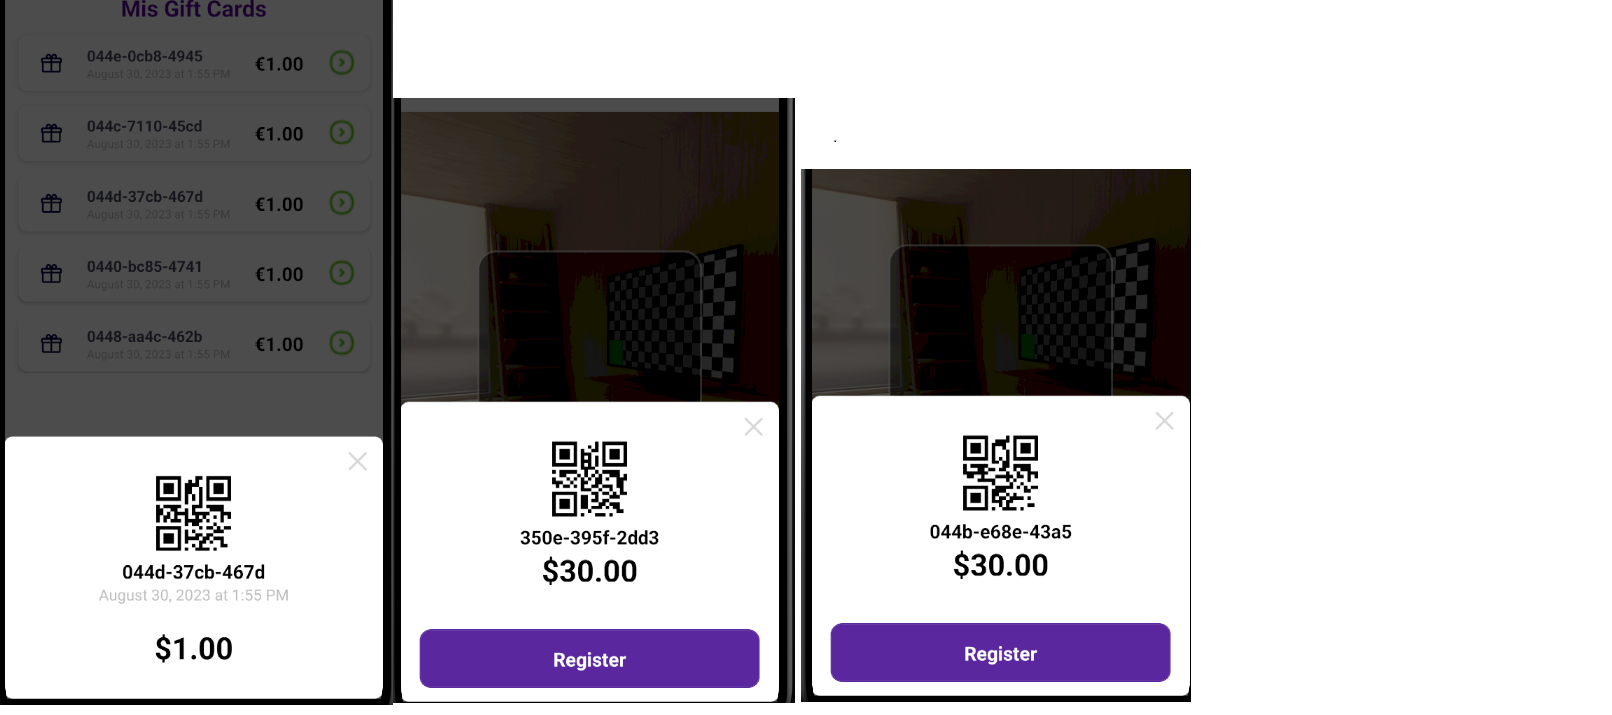
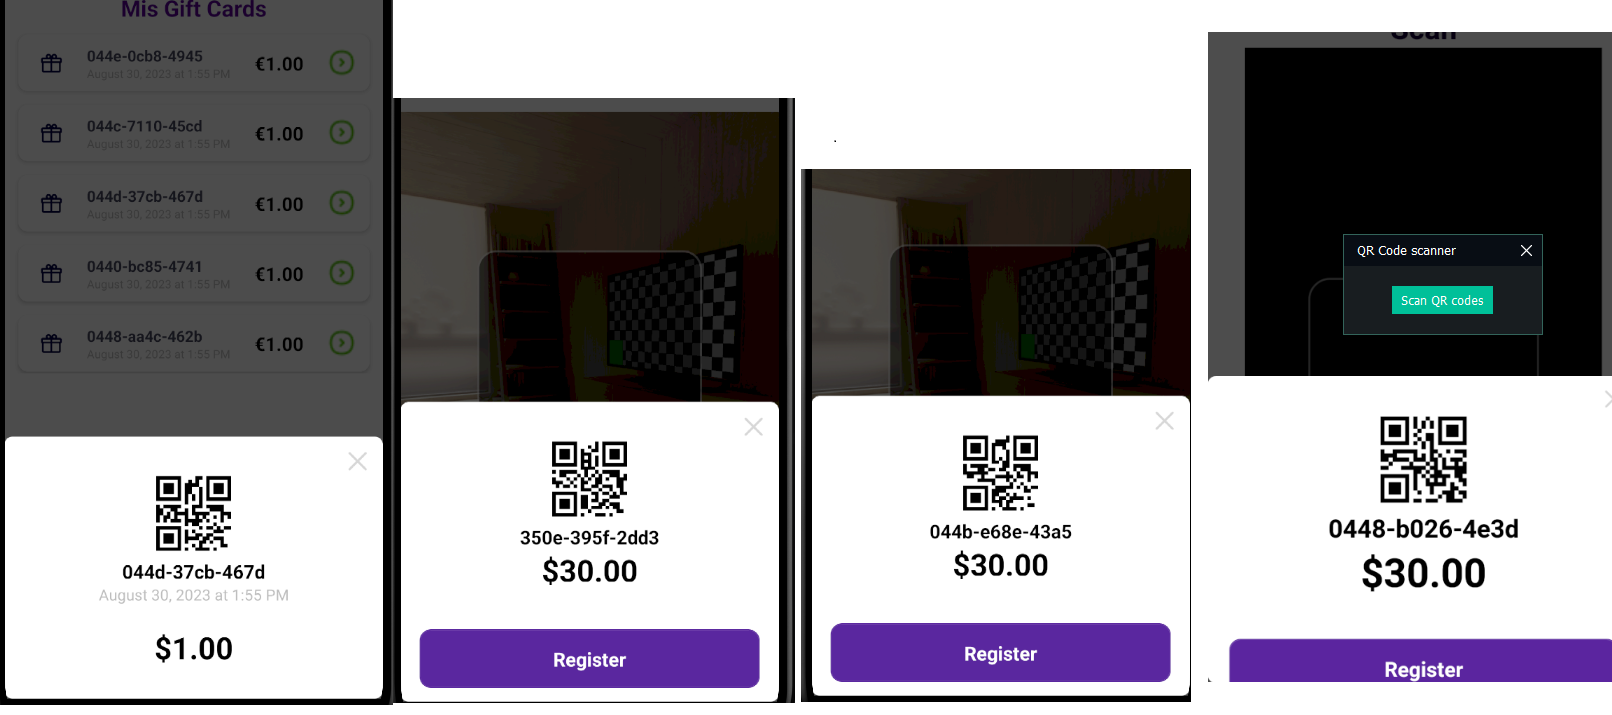
918

Changed region(s): [[0.7444, 0.0308, 1.0, 0.5538], [0.8065, 0.5846, 0.9615, 0.8308], [0.7444, 0.8923, 1.0, 0.9538]]

diff --git a/screens/ScanPage.js b/screens/ScanPage.js
@@ -29,13 +29,18 @@ LogBox.ignoreAllLogs();
 const ScanPage = ({ navigation }) => {
   const [hasPermission, setHasPermission] = useState(null);
   const [scanned, setScanned] = useState(false);
-  const [scanData, setScanData] = useState("044b-e68e-43a5");
+  const [scanData, setScanData] = useState("");
+
+  const [contact_email, setContactEmail] = useState("");
+  AsyncStorage.getItem("contact_email").then((url) => {
+    setContactEmail(url);
+  });
 
   const [previousScreen, setPreviousScreen] = useState("Barcode");
 
   const [visibleManual, setVisibleManual] = useState(null);
   const [printVisible, setPrintVisible] = useState(null);
-  const [cardStatus, setCardStatus] = useState(true);
+  const [cardStatus, setCardStatus] = useState("");
 
   const [dimension, setDimension] = useState(Dimensions.get("window"));
   const onChange = () => {
@@ -64,8 +69,6 @@ const ScanPage = ({ navigation }) => {
       setScanned(false);
       setHasPermission(false);
 
-      console.log("back");
-
       (async () => {
         const { status } = await BarCodeScanner.requestPermissionsAsync();
         setHasPermission(status === "granted");
@@ -78,13 +81,8 @@ const ScanPage = ({ navigation }) => {
 
   const handleBarCodeScanned = async ({ type, data }) => {
     setScanned(true);
-    console.log(data);
     setScanData(data);
-  };
-
-  useEffect(() => {
     var myHeaders = new Headers();
-    
 
     var requestOptions = {
       method: "POST",
@@ -93,13 +91,35 @@ const ScanPage = ({ navigation }) => {
     };
 
     fetch(
-      "https://erp.topledspain.com/api/search_giftcard?code=0448-aa4c-462b",
+      `https://erp.topledspain.com/api/search_giftcard?code=${data}`,
       requestOptions
     )
       .then((response) => response.text())
-      .then((result) => console.log(result))
-      .catch((error) => console.log("error", error));
-  }, []);
+      .then((result) => {
+        console.log(result);
+
+        if (result == "no") {
+          setCardStatus("2");
+          setVisibleManual(1);
+        } else {
+          const jsonData = JSON.parse(result);
+          console.log(jsonData[0].contact);
+          if (jsonData[0].contact == "new") {
+            setPrintVisible(1);
+          } else if (jsonData[0].contact == contact_email) {
+            setCardStatus("3");
+            setVisibleManual(1);
+          } else if (jsonData[0].contact != contact_email) {
+            setCardStatus("1");
+            setVisibleManual(1);
+          }
+        }
+      })
+      .catch((error) => {
+        console.log("error", "card not find");
+      });
+  };
+
   const PrintModal = () => {
     return (
       <View
@@ -344,11 +364,13 @@ const ScanPage = ({ navigation }) => {
         isVisible={visibleManual === 1}
         style={{ justifyContent: "center" }}
       >
-        {cardStatus
+        {cardStatus === "1"
           ? royalModal(
               "You cannot bind this gift card, please contact us if you have any questions."
             )
-          : royalModal("Could not find this gift card .")}
+          : cardStatus === "2"
+          ? royalModal("Could not find this gift card .")
+          : royalModal("This card is already registered to you .")}
       </Modal>
       <Modal isVisible={printVisible === 1} style={styles.bottomModal}>
         {PrintModal()}

diff --git a/screens/Ticket.js b/screens/Ticket.js
@@ -33,18 +33,55 @@ const TicketPage = ({ navigation }) => {
 
   const [tickets, setTickets] = useState([]);
 
-  const dateFormat = (dateString) => {
-    const dateTime = new Date(dateString);
-    const formattedDateTime = dateTime.toLocaleString("en-US", {
-      year: "numeric",
-      month: "long",
-      day: "numeric",
-      hour: "numeric",
-      minute: "numeric",
-      hour12: true,
-    });
+  const dateFormat = (inputDateStr) => {
+    // Convert input string to a Date object
+    console.log(inputDateStr)
+    var inputDateStr = "2023-09-15 14:31:30";
 
-    return formattedDateTime;
+    // Convert input string to a Date object
+    var inputDate = new Date(inputDateStr);
+
+    // Define month names
+    var monthNames = [
+      "Jan",
+      "Feb",
+      "Mar",
+      "Apr",
+      "May",
+      "Jun",
+      "Jul",
+      "Aug",
+      "Sep",
+      "Oct",
+      "Nov",
+      "Dec",
+    ];
+
+    // Extract date components
+    var day = inputDate.getDate();
+    var month = monthNames[inputDate.getMonth()];
+    var year = inputDate.getFullYear();
+    var hours = inputDate.getHours();
+    var minutes = inputDate.getMinutes();
+
+    // Adjust hours to 12-hour format
+    var ampm = hours >= 12 ? "PM" : "AM";
+    hours = hours % 12;
+    hours = hours ? hours : 12;
+
+    // Format the time string with leading zeros if necessary
+    var timeStr =
+      hours.toString().padStart(2, "0") +
+      "." +
+      minutes.toString().padStart(2, "0");
+
+    // Create the final formatted date and time string
+    var formattedDateStr =
+      day + " " + month + " " + year + ", " + timeStr + " " + ampm;
+
+    // Output the formatted date string
+    console.log(formattedDateStr);
+    return formattedDateStr;
   };
   useEffect(() => {
     AsyncStorage.getItem("contact_email").then((contact_email) => {
@@ -60,12 +97,10 @@ const TicketPage = ({ navigation }) => {
         "https://erp.topledspain.com/api/get_contact_orders?email=793100371@qq.com",
         requestOptions
       )
-        .then((response) => {
-          console.log(response);
-          return response.json()
-        })
+        .then((response) => response.text())
         .then((result) => {
           console.log(result);
+          setTickets(JSON.parse(result));
         })
         .catch((error) => console.log("error", error));
     });
@@ -128,7 +163,7 @@ const TicketPage = ({ navigation }) => {
             <Text
               style={{ fontSize: dimension.width * 0.03, color: "#BDBDBD" }}
             >
-              {dateFormat(item.date)}
+              {dateFormat(item.date_order)}
             </Text>
           </View>
           <View

diff --git a/Odoo/controllers/main.py b/Odoo/controllers/main.py
@@ -348,17 +348,26 @@ class APIController(http.Controller):
         code = post.get('code')
         giftcards = request.env['loyalty.card'].sudo().search([('program_type', 'ilike', 'Gift'), ('code', '=', code )])
 
-        cardcontacts = request.env['res.partner'].sudo().browse(int(giftcards[0].partner_id))
-        
+        if giftcards :
+            contact = ''
+            
+            if giftcards[0].partner_id:
+                cardcontacts = request.env['res.partner'].sudo().browse(int(giftcards[0].partner_id))
+                contact = cardcontacts[0].email
+            else :
+                contact = 'new'
+            
 
-        order_data = [{
-            'code': card['code'],
-            'balance': str(card['points']),
-            'date' : str(card['create_date']),
-            'contact' : cardcontacts[0].email
-        } for card in giftcards]
+            order_data = [{
+                'code': card['code'],
+                'balance': str(card['points']),
+                'date' : str(card['create_date']),
+                'contact' : contact
+            } for card in giftcards]
 
-        return json.dumps(order_data)
+            return json.dumps(order_data)
+        else :
+            return "no"
         
     
     @http.route('/api/get_contact_orders', auth='public', type='http', website=True, methods=['POST'],csrf=False)
@@ -367,7 +376,8 @@ class APIController(http.Controller):
         contacts = request.env['res.partner'].search([('email', '=', email)])
         contact = contacts[0]
 
-        orders = request.env['pos.order'].search([('partner_id', '=', contact.id)])
+        # orders = request.env['pos.order'].search([('partner_id', '=', contact.id)])
+        orders = request.env['pos.order'].sudo().search([('partner_id', '=', contact.id)])
 
         order_data = [{
             'name': order['name'],
@@ -376,6 +386,7 @@ class APIController(http.Controller):
         } for order in orders]
 
         return json.dumps(order_data)
+        return "hello"
         
     
     
